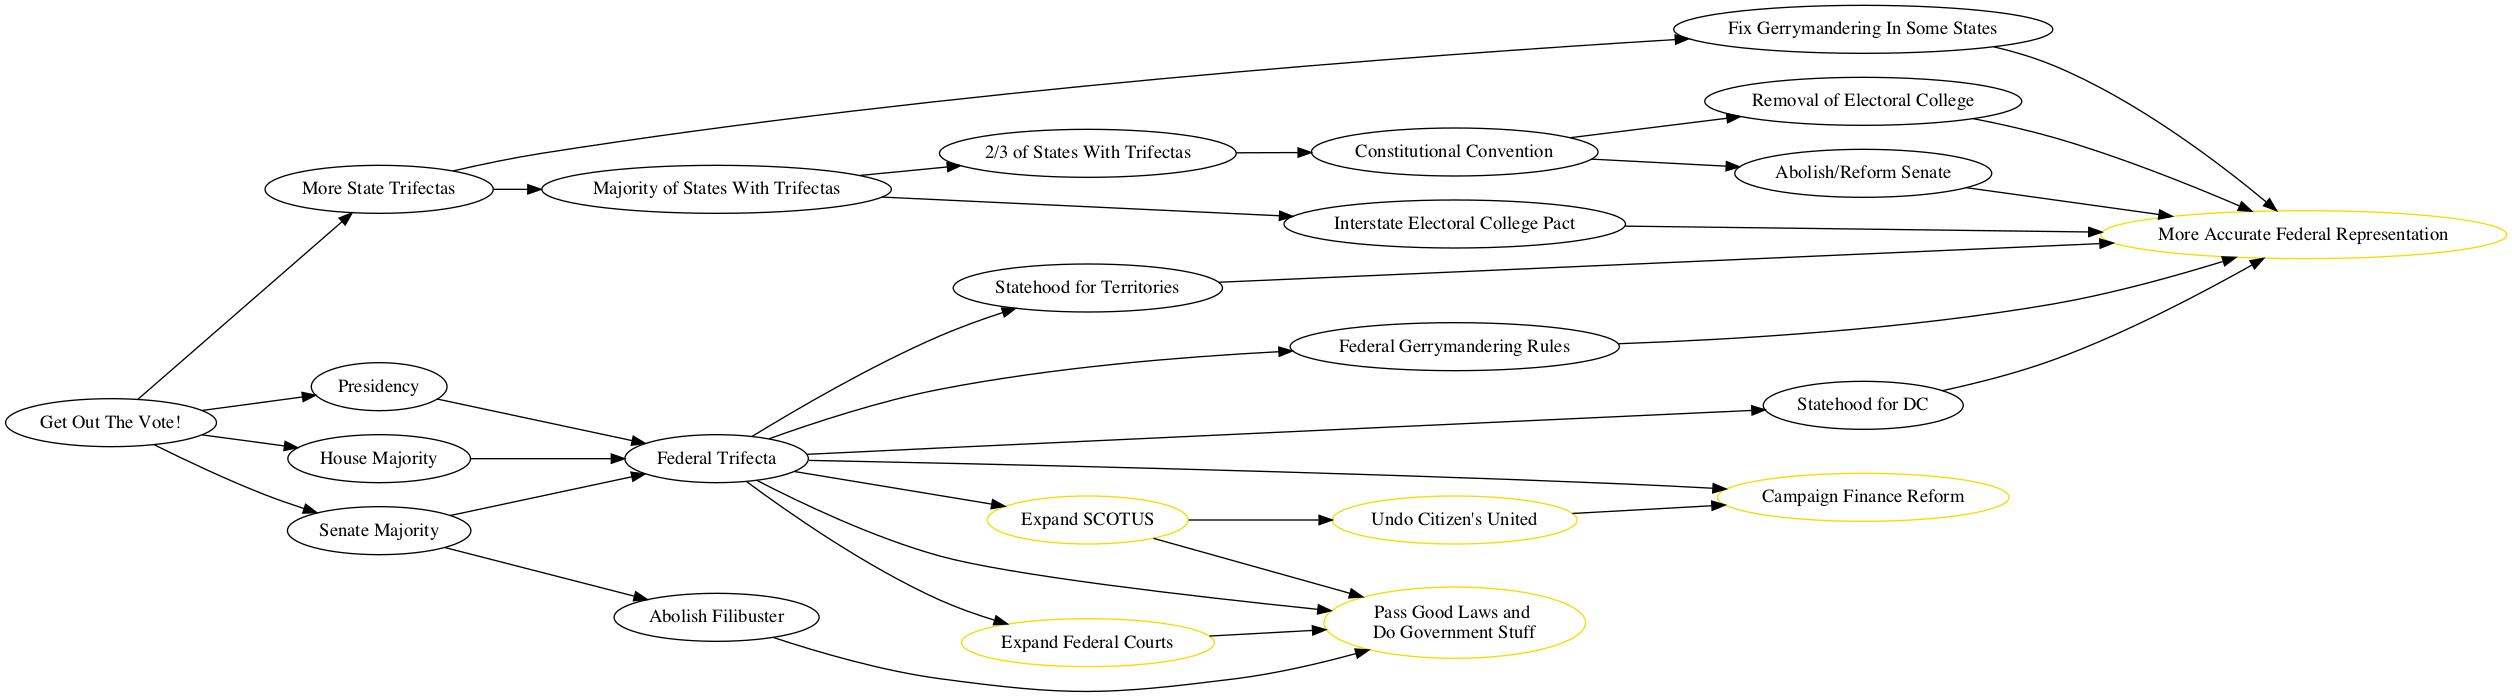
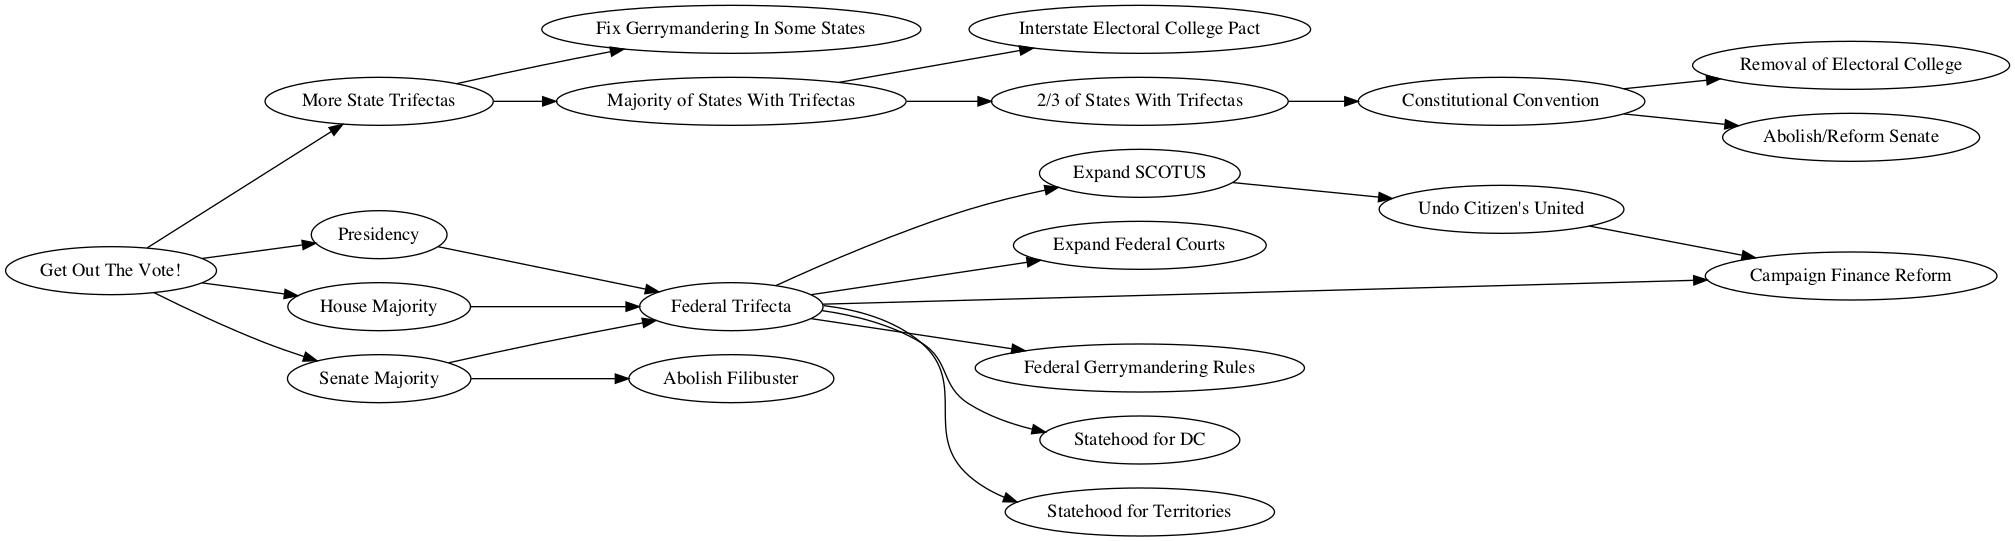
remove and simplify various things

diff --git a/code.rb b/code.rb
@@ -11,16 +11,16 @@ g[:truecolor => true, :bgcolor => "transparent", :rankdir => "LR"]
 
 # goals
 goals = [
-  representation = g.add_node( "More Accurate Federal Representation" ),
   expand_scotus = g.add_node( "Expand SCOTUS" ),
   expand_federal = g.add_node( "Expand Federal Courts" ),
-  legislation = g.add_node( "Pass Good Laws and \nDo Government Stuff" ),
-  representation = g.add_node( "More Accurate Federal Representation" ),
+  # legislation = g.add_node( "Pass Good Laws and \nDo Government Stuff" ),
+  # representation = g.add_node( "More Accurate Federal Representation" ),
   campaign_finance = g.add_node( "Campaign Finance Reform" ),
-  citizens_united = g.add_node( "Undo Citizen's United" ),
+  # elections = g.add_node( "Fair and Accessible Elections" ),
 ]
-goals.each{|g| g[:color => 'gold']}
+# goals.each{|g| g[:color => 'gold']}
 
+citizens_united = g.add_node( "Undo Citizen's United" )
 gerrymandering_fed = g.add_node("Federal Gerrymandering Rules")
 gerrymandering_state = g.add_node("Fix Gerrymandering In Some States")
 ec_pact = g.add_node("Interstate Electoral College Pact")
@@ -63,20 +63,17 @@ g.add_edge(fed_trifecta, dc)
 g.add_edge(fed_trifecta, territories)
 g.add_edge(fed_trifecta, expand_federal)
 g.add_edge(fed_trifecta, expand_scotus)
-g.add_edge(fed_trifecta, legislation)
-g.add_edge(filibuster, legislation)
-g.add_edge(senate, representation)
-g.add_edge(dc, representation)
-g.add_edge(territories, representation)
-g.add_edge(gerrymandering_fed, representation)
-g.add_edge(gerrymandering_state, representation)
-g.add_edge(ec_pact, representation)
-g.add_edge(remove_ec, representation)
+# g.add_edge(senate, representation)
+# g.add_edge(dc, representation)
+# g.add_edge(territories, representation)
+# g.add_edge(gerrymandering_fed, representation)
+# g.add_edge(gerrymandering_state, representation)
+# g.add_edge(ec_pact, representation)
+# g.add_edge(remove_ec, representation)
 g.add_edge(expand_scotus, citizens_united)
-g.add_edge(expand_scotus, legislation)
-g.add_edge(expand_federal, legislation)
 g.add_edge(citizens_united, campaign_finance)
 g.add_edge(fed_trifecta, campaign_finance)
+# g.add_edge(citizens_united, elections)
 
 # Generate output image
 g.output( :png => "image.png" )
